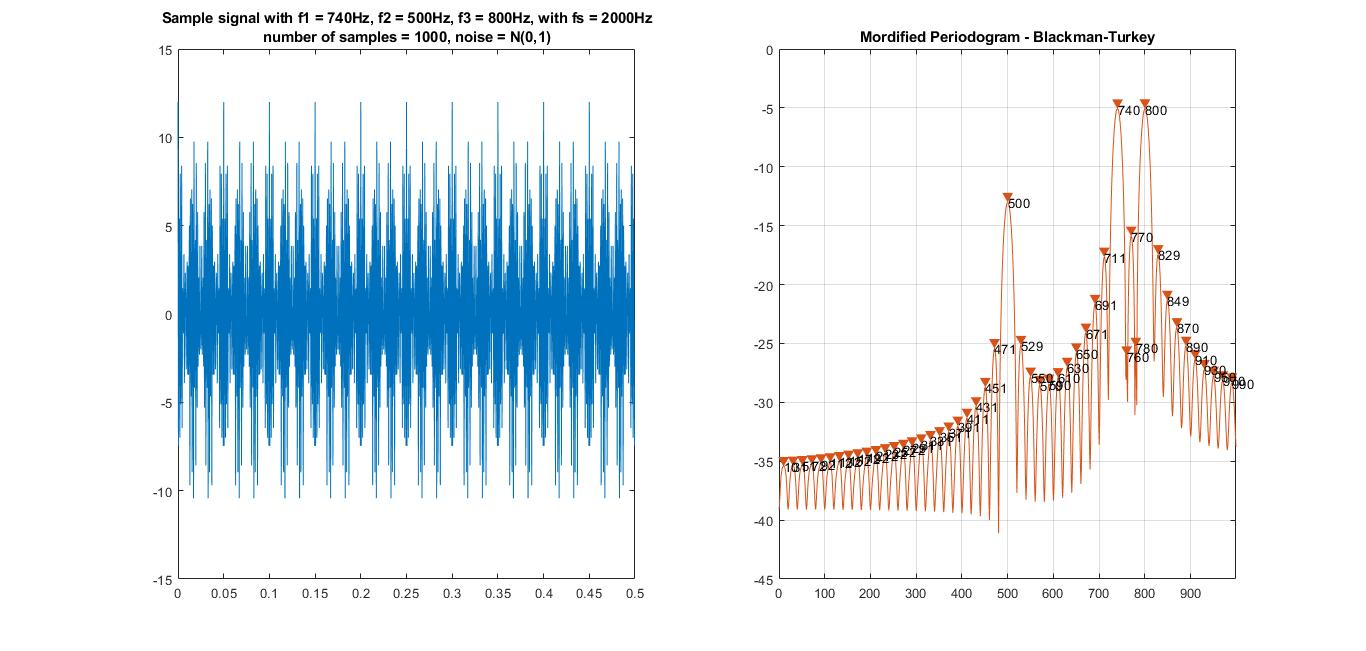
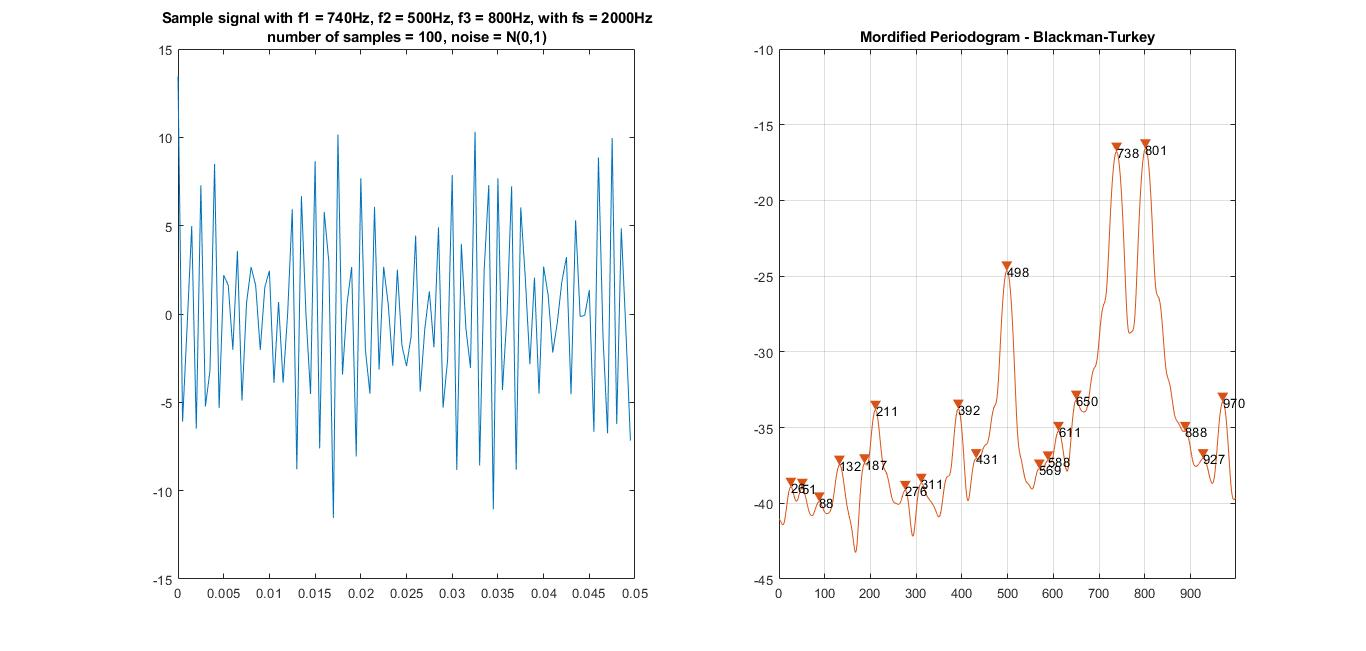
add

diff --git a/blackman_turkey.m b/blackman_turkey.m
@@ -14,28 +14,37 @@ t = t/fs;
 f1 = alpha*fs;
 f2 = beta*fs;
 f3 = muy*fs;
-variance = 0;
+variance = 1;
 w = sqrt(variance)*randn(1,N);
 % Generate sample with white gaussian noise N(0,1)
 for n = 1:1:N
-    x(n) = a*cos(alpha*fs*2*pi*(n-1)/fs)+b*cos(beta*fs*2*pi*(n-1)/fs)+c*cos(muy*fs*2*pi*(n-1)/fs)+w(n);
+    sig(n) = a*cos(alpha*fs*2*pi*(n-1)/fs)+b*cos(beta*fs*2*pi*(n-1)/fs)+c*cos(muy*fs*2*pi*(n-1)/fs)+w(n);
 end
-
+for n = 1:1:Nfft/2
+    x(n) = 0;
+end
+for n = Nfft/2+1:1:Nfft/2+N
+    x(n) = sig(n-Nfft/2);
+end
+for n = Nfft/2+N+1:1:Nfft
+    x(n) = 0;
+end
 % Calculate correlation of signal
-rx = zeros(1,N);
-for m = (N/2):(N-1)
-    for n = (N/2):(N-m-1+N/2)
-        rx(m) = rx(m) + x(n+m-N/2)*x(n);
+rx = zeros(1,Nfft);
+for m = (Nfft/2+1):(Nfft)
+    for n = (Nfft/2+1):(Nfft-m+1+Nfft/2)
+        rx(m) = rx(m) + x(n+m-Nfft/2-1)*x(n);
     end
-    rx(m) = rx(m)/(N-m);
+    rx(m) = rx(m)/(Nfft-m+1);
 end
-for m = 1:N/2
-    rx(m) = rx(N-m);
+for m = 2:Nfft/2
+    rx(m) = rx(Nfft-m+2);
 end
 
 % Generate Barlett window values
-M = round(N/10);
-L = 2*M+1;
+ %round(Nfft/10);
+L = round(Nfft/10);
+M = (L-1)/2;
 wbarlett = zeros(1,L);
 for m = 1:L
     if(m<=((L+1)/2))
@@ -49,7 +58,7 @@ end
 Pbt = zeros(1,fs/2);
 for f = 1:fs/2
     for i = -M:M
-        Pbt(f) = Pbt(f) + wbarlett(i+(L+1)/2)*rx(N/2+i)*exp(-1i*2*pi*(f-1)*(i+N/2)*T);
+        Pbt(f) = Pbt(f) + wbarlett(i+(L+1)/2)*rx(Nfft/2+i+1)*exp(-1i*2*pi*(f-1)*(i+Nfft/2+1)*T);
     end
     Pbt(f) = abs(Pbt(f))*T;
 end
@@ -57,7 +66,7 @@ Pbt = 10*log10(Pbt);
 
 % Plotting the signal and periodogram
 subplot(1,2,1);
-plot(t,x);
+plot(t,sig(1:1:N));
 title_1 = strcat("Sample signal with f1 = ",num2str(f1),"Hz, f2 = ",num2str(f2),"Hz, f3 = ",num2str(f3),"Hz, with fs = ",num2str(fs),"Hz");
 title_11 = strcat("number of samples = ",num2str(N),", noise = N(0,1)");
 title({title_1,title_11});
